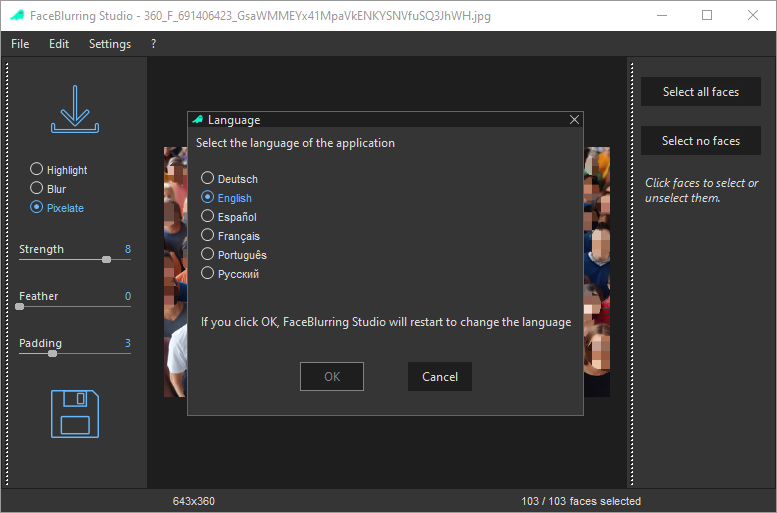
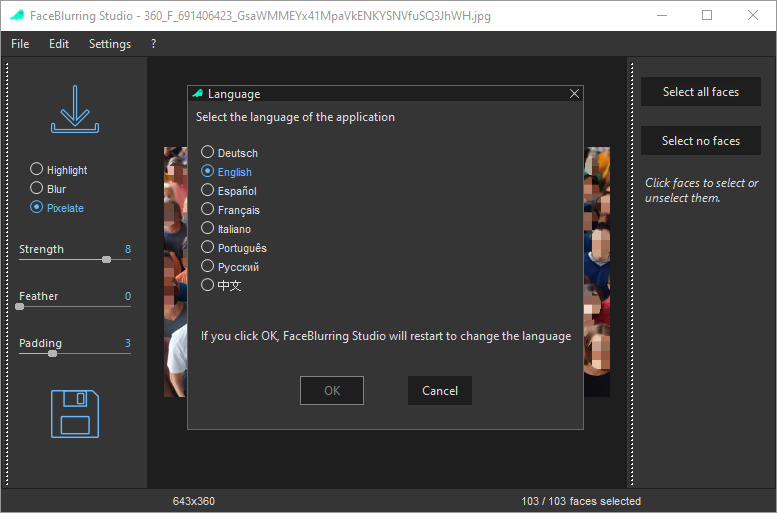
Update index.html and image
Since Portuguese and Chinese languages have been added.
Images are now clickable and can be opened in a new tab

diff --git a/index.html b/index.html
@@ -301,12 +301,47 @@
                   <p>See how FaceBlurring Studio handles images, videos, face masks and exports.</p>
               </div>
               <div class="gallery-grid">
-                  <figure class="shot"><img src="screenshots/gui.png" alt="Face blurring interface for images"><figcaption>Face blurring on images</figcaption></figure>
-                  <figure class="shot"><img src="screenshots/export_image.png" alt="Image export"><figcaption>Image export</figcaption></figure>
-                  <figure class="shot"><img src="screenshots/video_blurring.png" alt="Face blurring interface for videos"><figcaption>Face blurring on videos</figcaption></figure>
-                  <figure class="shot"><img src="screenshots/export_video.png" alt="Video export (MP4, AVI, MOV, MKV)"><figcaption>Video export (MP4, AVI, MOV, MKV)</figcaption></figure>
-                  <figure class="shot"><img src="screenshots/face_model.png" alt="Smooth and accurate face masking"><figcaption>Smooth and accurate face masking</figcaption></figure>
-                  <figure class="shot"><img src="screenshots/languages.png" alt="Available interface languages"><figcaption>Available languages</figcaption></figure>
+                  <figure class="shot">
+                      <a href="screenshots/gui.png" target="_blank" rel="noopener noreferrer">
+                          <img src="screenshots/gui.png" alt="Face blurring interface for images">
+                      </a>
+                      <figcaption>Face blurring on images</figcaption>
+                  </figure>
+
+                  <figure class="shot">
+                      <a href="screenshots/export_image.png" target="_blank" rel="noopener noreferrer">
+                          <img src="screenshots/export_image.png" alt="Image export">
+                      </a>
+                      <figcaption>Image export</figcaption>
+                  </figure>
+
+                  <figure class="shot">
+                      <a href="screenshots/video_blurring.png" target="_blank" rel="noopener noreferrer">
+                          <img src="screenshots/video_blurring.png" alt="Face blurring interface for videos">
+                      </a>
+                      <figcaption>Face blurring on videos</figcaption>
+                  </figure>
+
+                  <figure class="shot">
+                      <a href="screenshots/export_video.png" target="_blank" rel="noopener noreferrer">
+                          <img src="screenshots/export_video.png" alt="Video export (MP4, AVI, MOV, MKV)">
+                      </a>
+                      <figcaption>Video export (MP4, AVI, MOV, MKV)</figcaption>
+                  </figure>
+
+                  <figure class="shot">
+                      <a href="screenshots/face_model.png" target="_blank" rel="noopener noreferrer">
+                          <img src="screenshots/face_model.png" alt="Smooth and accurate face masking">
+                      </a>
+                      <figcaption>Smooth and accurate face masking</figcaption>
+                  </figure>
+
+                  <figure class="shot">
+                      <a href="screenshots/languages.png" target="_blank" rel="noopener noreferrer">
+                          <img src="screenshots/languages.png" alt="8 available interface languages">
+                      </a>
+                      <figcaption>8 available languages</figcaption>
+                  </figure>
               </div>
           </div>
       </section>
